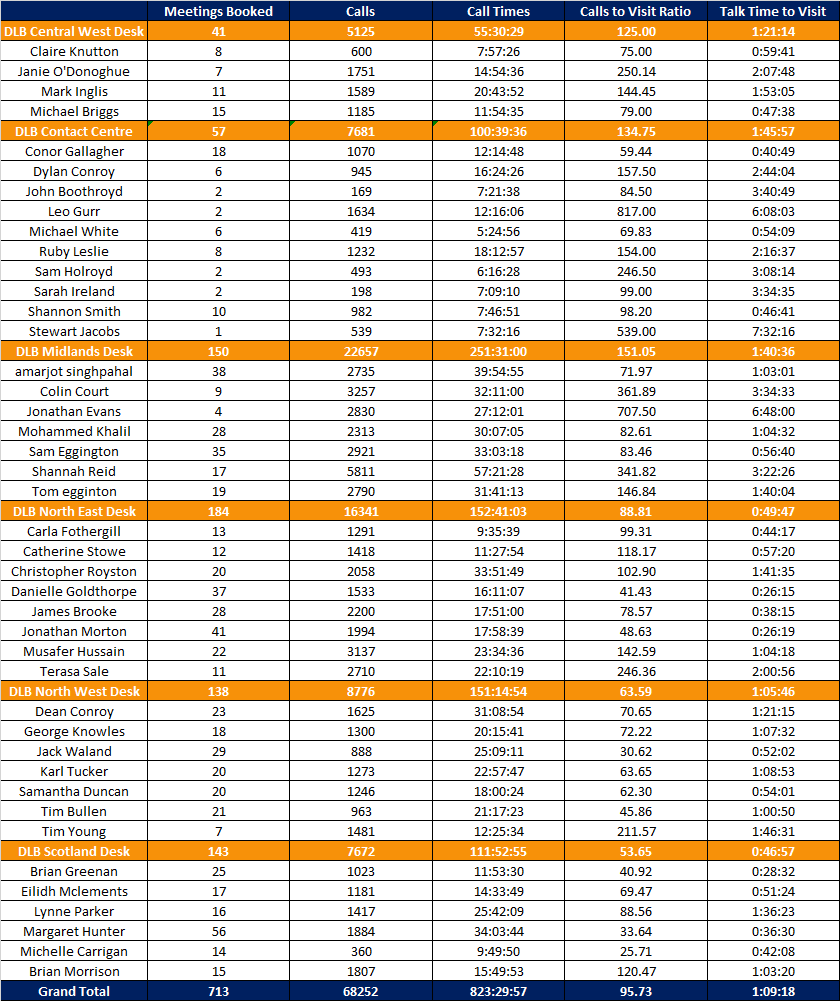
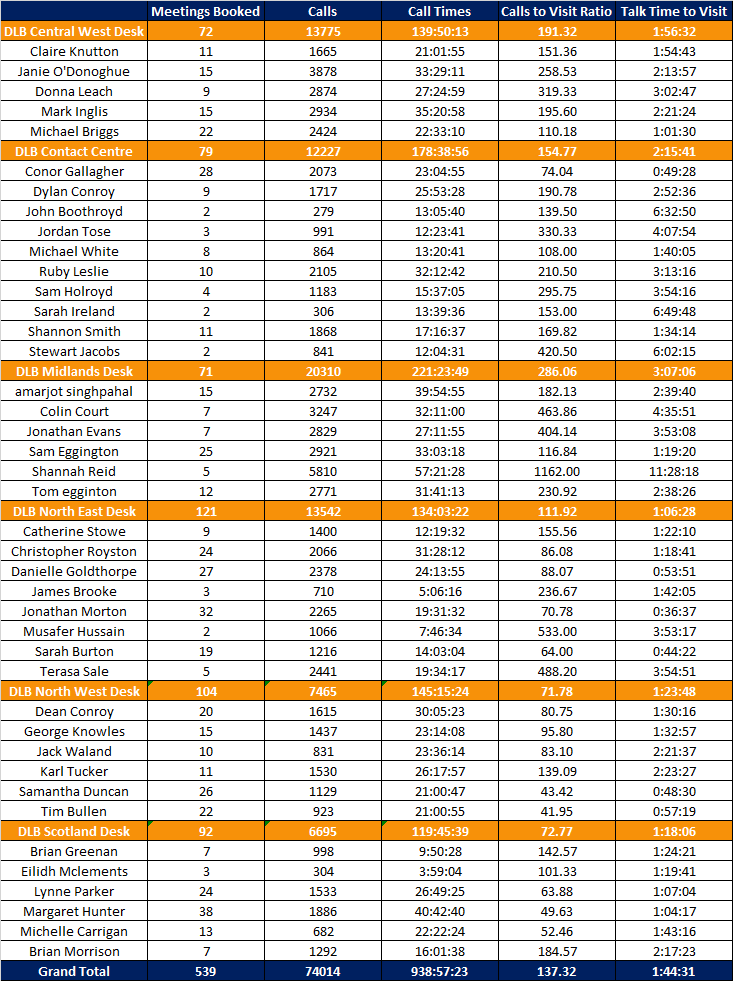
stats end of July

diff --git a/_posts/2014-07-01-KPI-July-Field.md b/_posts/2014-07-01-KPI-July-Field.md
@@ -1,6 +1,6 @@
 ---
 layout: post
-title: Field KPI's (Up to 16th July)
+title: Field KPI's
 ---
 
 

diff --git a/_posts/2014-07-01-KPI-July-Desk.md b/_posts/2014-07-01-KPI-July-Desk.md
@@ -1,6 +1,6 @@
 ---
 layout: post
-title: Desk KPI's (Up to 16th July)
+title: Desk KPI's
 ---
 
 
